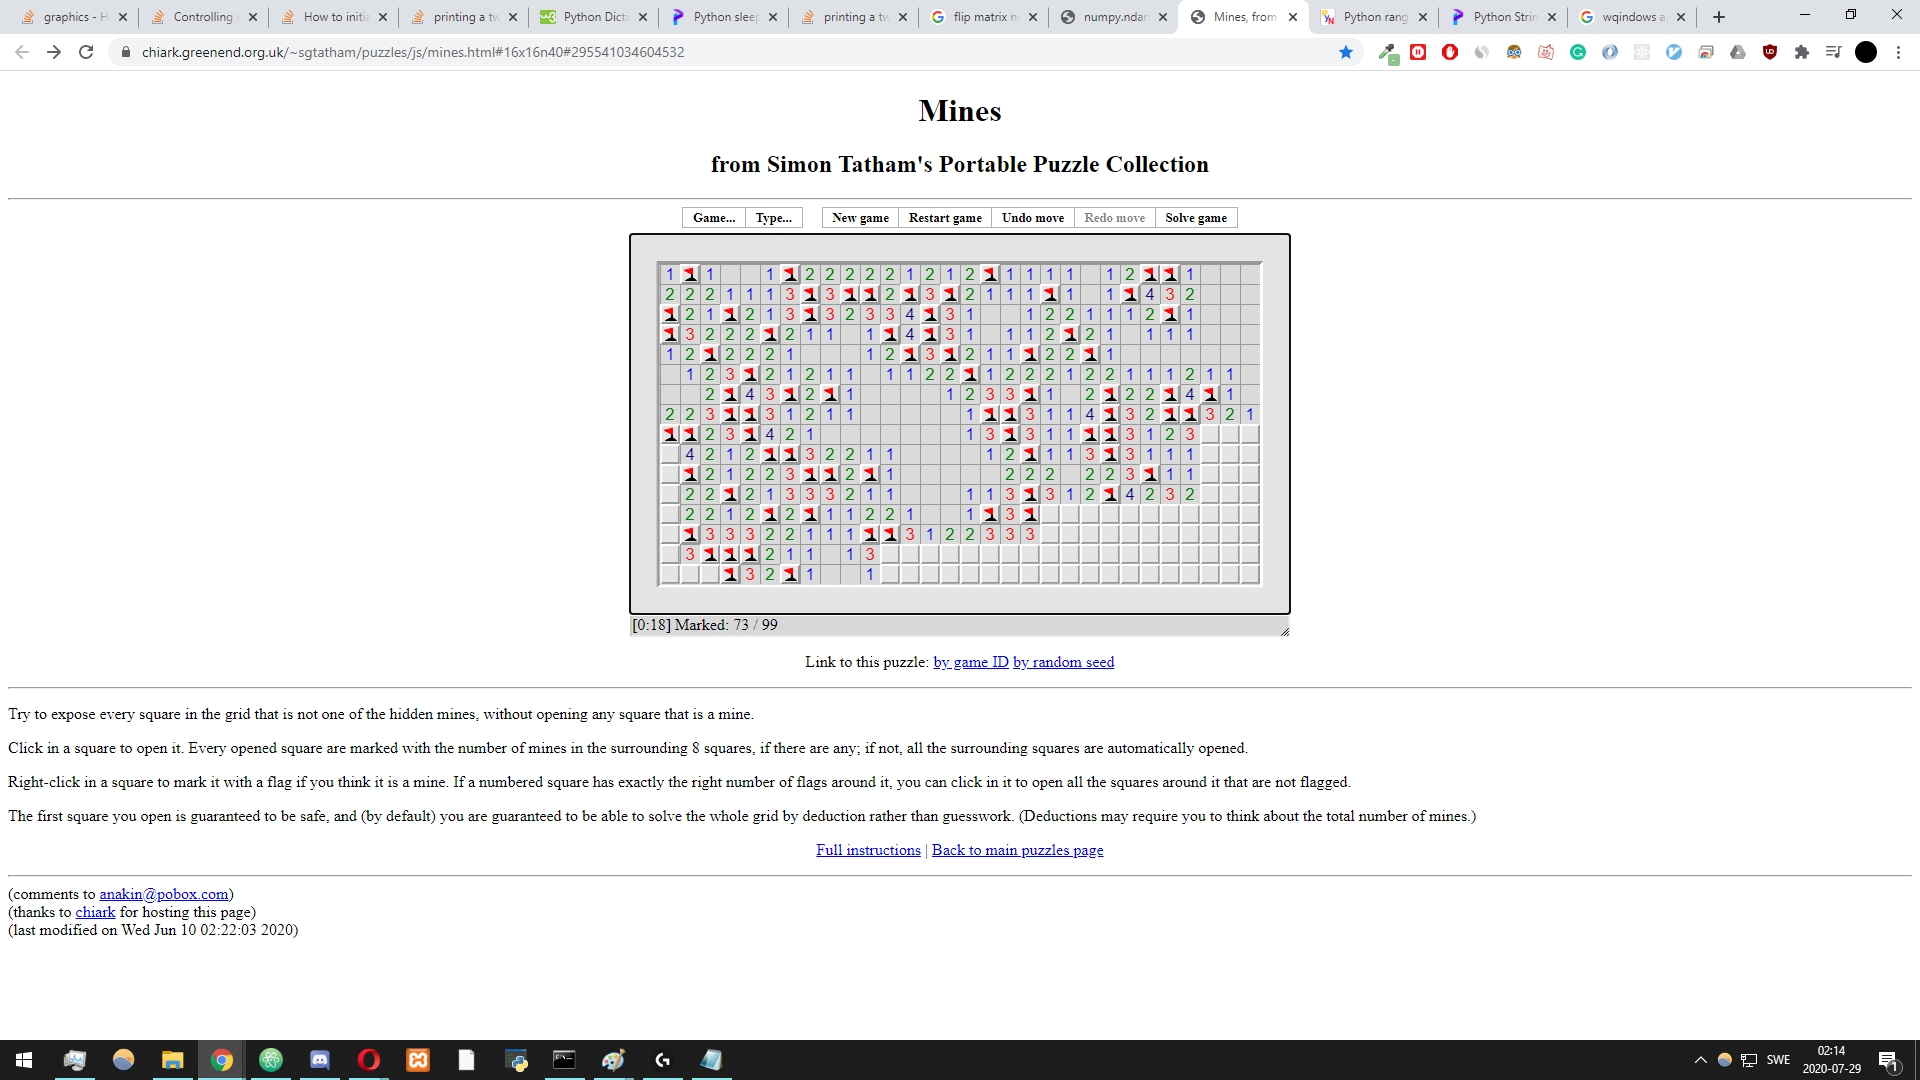
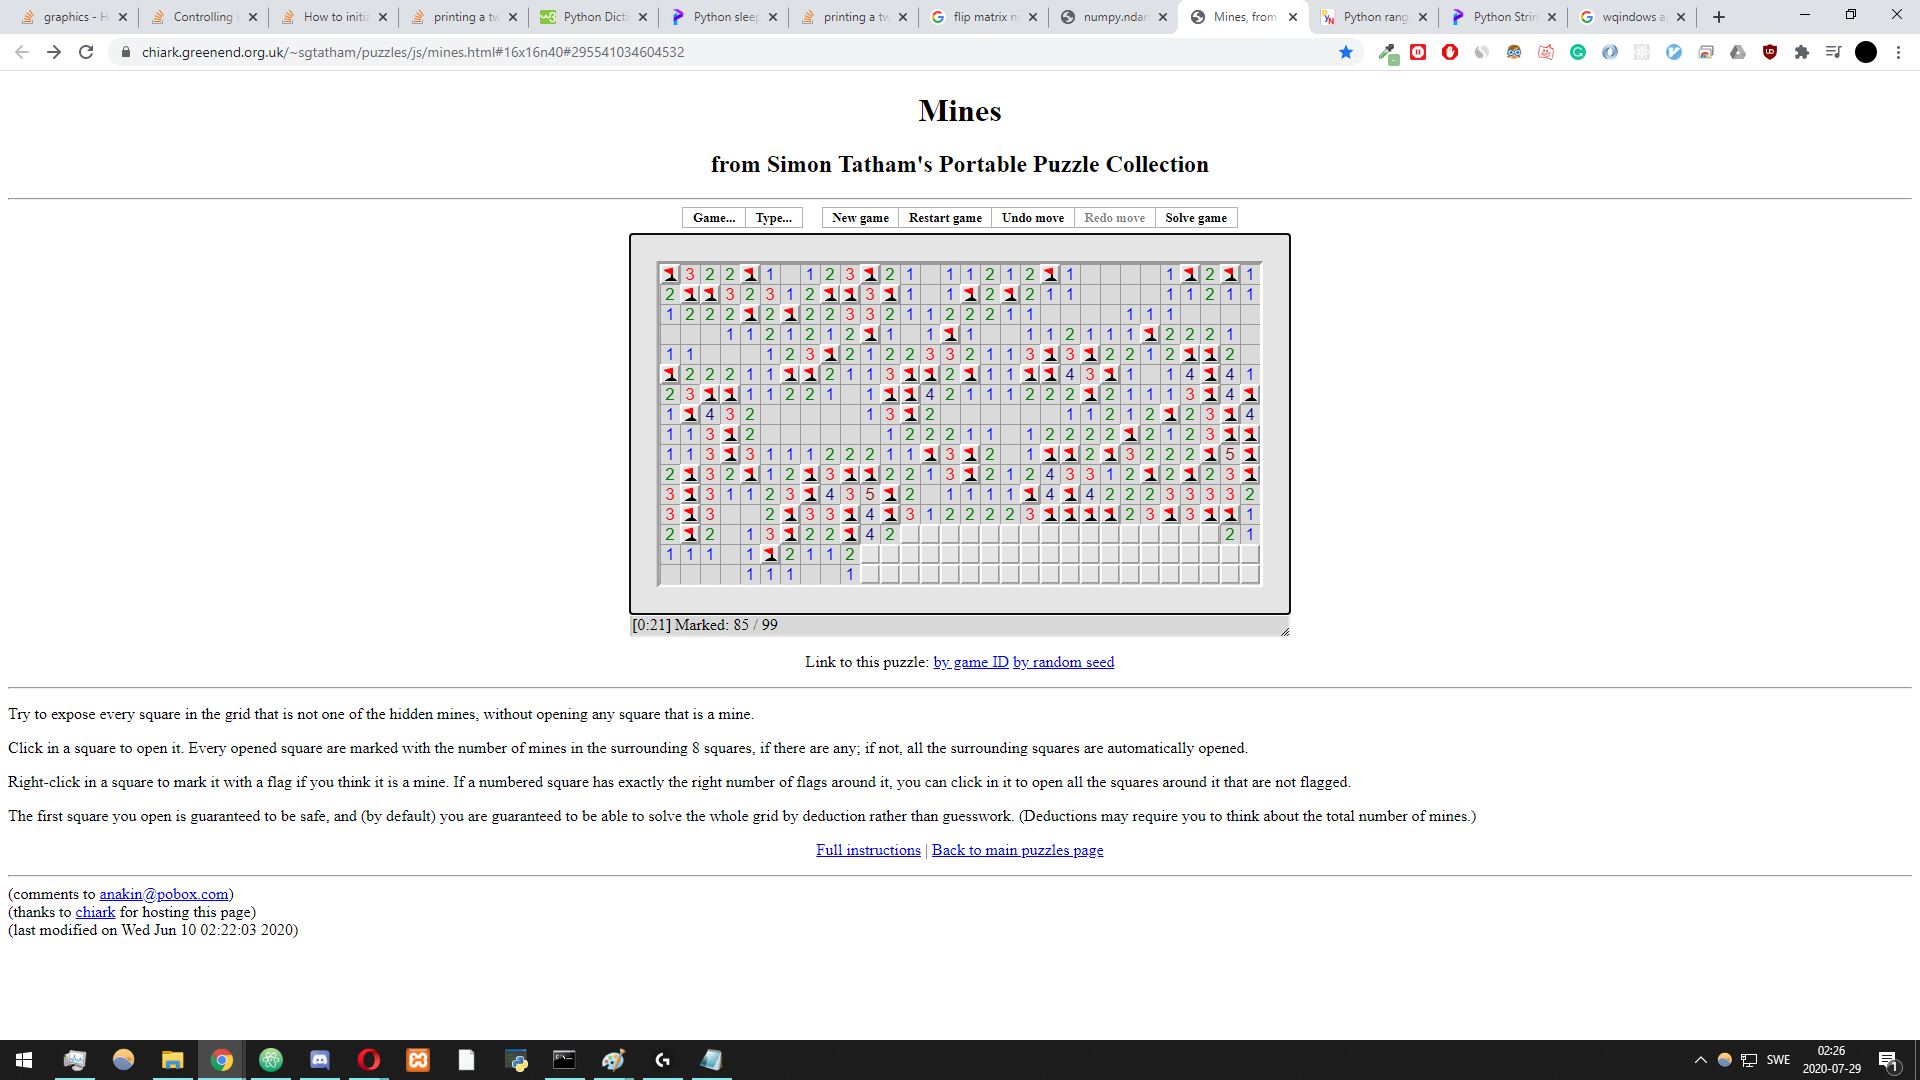
Keep running if a cell has been opened previous iteration

Changed region(s): [[0.3438, 0.2444, 0.6562, 0.55]]

diff --git a/main.py b/main.py
@@ -21,10 +21,22 @@ HEIGHT = 16
 TOTAL_BOMBS = 170
 foundBombs = 0
 
+# seconds
+NO_CHANGE_TIMEOUT = 2
+
 UNKNOWN_SQUARE = '.'
 MINE_SQUARE = '*'
 
 ORIGINAL_MOUSE_POSITION = pyautogui.position()
+
+
+START_OPEN_X = 14
+START_OPEN_Y = 7
+
+latestopenX = START_OPEN_X
+latestopenY = START_OPEN_Y
+
+latestOpen = time.time()
 
 # 0 = empty
 OFFSET = {
@@ -63,7 +75,7 @@ minesAround = [[0]*HEIGHT for i in range(WIDTH)]
 hasOpened = [[False]*HEIGHT for i in range(WIDTH)]
 remainder = [[9]*HEIGHT for i in range(WIDTH)]
 
-minesMarkedIteration = 0
+productiveStepsIteration = 0
 
 img = None
 
@@ -85,12 +97,21 @@ def getNumberAt(xCord, yCord):
 
     return UNKNOWN_SQUARE
 
+
+def isOpen(xCord, yCord):
+    x = START_X + xCord * STEP_SIZE
+    y = START_Y + yCord * STEP_SIZE
+
+    if screen[x + OFFSET[0]['x'], y + OFFSET[0]['y']] == COLOR[0]:
+        return True
+    return False
+
 def getScreenshot():
     # move mouse out of the way
-    time.sleep(0.5)
+    time.sleep(1)
     win32api.SetCursorPos((1600, 2000))
     myScreenshot = pyautogui.screenshot()
-    myScreenshot.save(r'.\screen.png')
+    #myScreenshot.save(r'.\screen.png')
     img = myScreenshot
     image = myScreenshot.load()
 
@@ -100,30 +121,38 @@ def click(x, y):
     win32api.SetCursorPos((x,y))
     win32api.mouse_event(win32con.MOUSEEVENTF_LEFTDOWN,x,y,0,0)
     win32api.mouse_event(win32con.MOUSEEVENTF_LEFTUP,x,y,0,0)
-    time.sleep(0.02)
+    time.sleep(0.05)
 
 def rightClick(x, y):
     win32api.SetCursorPos((x,y))
     win32api.mouse_event(win32con.MOUSEEVENTF_RIGHTDOWN,x,y,0,0)
     win32api.mouse_event(win32con.MOUSEEVENTF_RIGHTUP,x,y,0,0)
-    time.sleep(0.02)
+    time.sleep(0.05)
 
 def clickSquare(x, y):
-    click(START_X + x*STEP_SIZE, START_Y + y*STEP_SIZE)
+    click(START_X + x*STEP_SIZE-5, START_Y + y*STEP_SIZE-5)
 
 def openSquare(x,y):
+    global productiveStepsIteration
+    latestopenX = x
+    latestopenY = y
+
+    latestOpen = time.time()
+
+
     #print("opening square")
     if not hasOpened[x][y]:
-        click(START_X + x*STEP_SIZE, START_Y + y*STEP_SIZE)
+        click(START_X + x*STEP_SIZE-5, START_Y + y*STEP_SIZE-5)
         hasOpened[x][y] = True
+        productiveStepsIteration += 1
 
 def markMine(x,y):
-    global minesMarkedIteration
+    global productiveStepsIteration
     global foundBombs
     rightClick(START_X + x*STEP_SIZE, START_Y + y*STEP_SIZE)
     board[x][y] = MINE_SQUARE
 
-    minesMarkedIteration += 1
+    productiveStepsIteration += 1
 
     for square in getSquaresAround(x,y):
         minesAround[square['x']][square['y']] += 1
@@ -233,12 +262,20 @@ def printState():
     print("")
 
 def resetGame():
+    global board
+    global unknownAround
+    global minesAround
+    global hasOpened
+    global remainder
+    global tries
+
+
     click(750, 220)
     #click(750, 358) # HARD
 
     click(750, 338) # EASIER
 
-    board = [ [UNKNOWN_SQUARE]*HEIGHT for i in range(WIDTH)]
+    board = [[UNKNOWN_SQUARE]*HEIGHT for i in range(WIDTH)]
     unknownAround = [ [0]*HEIGHT for i in range(WIDTH)]
     minesAround = [ [0]*HEIGHT for i in range(WIDTH)]
     hasOpened = [ [False]*HEIGHT for i in range(WIDTH)]
@@ -250,15 +287,16 @@ while gamesPlayed < GAMES:
 
     time.sleep(2)
     resetGame()
-    clickSquare(14,7)
+    clickSquare(START_OPEN_X, START_OPEN_Y)
     time.sleep(1)
 
     screenshot = getScreenshot()
     screen = screenshot.load()
 
-    minesMarkedIteration = 1
-    while tries < MAX_TRIES and minesMarkedIteration > 0:
-        minesMarkedIteration = 0
+    productiveStepsIteration = 1
+    while tries < MAX_TRIES and productiveStepsIteration > 0:
+    #while time.time() - latestOpen < NO_CHANGE_TIMEOUT:
+        productiveStepsIteration = 0
         tries += 1
         print("iteration: ", tries)
 
@@ -287,6 +325,8 @@ while gamesPlayed < GAMES:
 
                 if str(boardVal).isnumeric():
                     remainder[x][y] = boardVal - minesAround[x][y]
+                elif unknownAround[x][y] == 0:
+                    remainder[x][y] = ' '
                 else:
                     remainder[x][y] = 9
 
